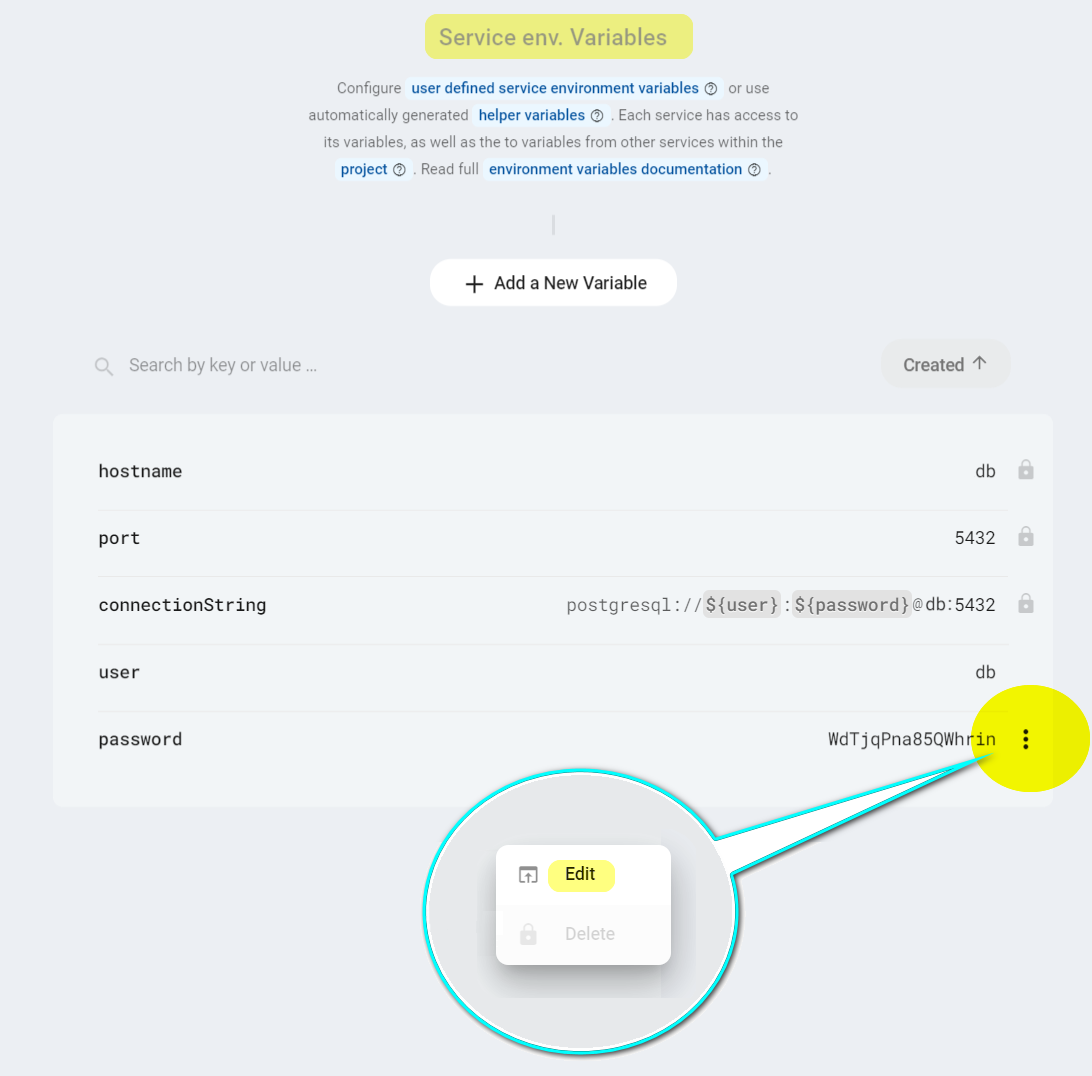
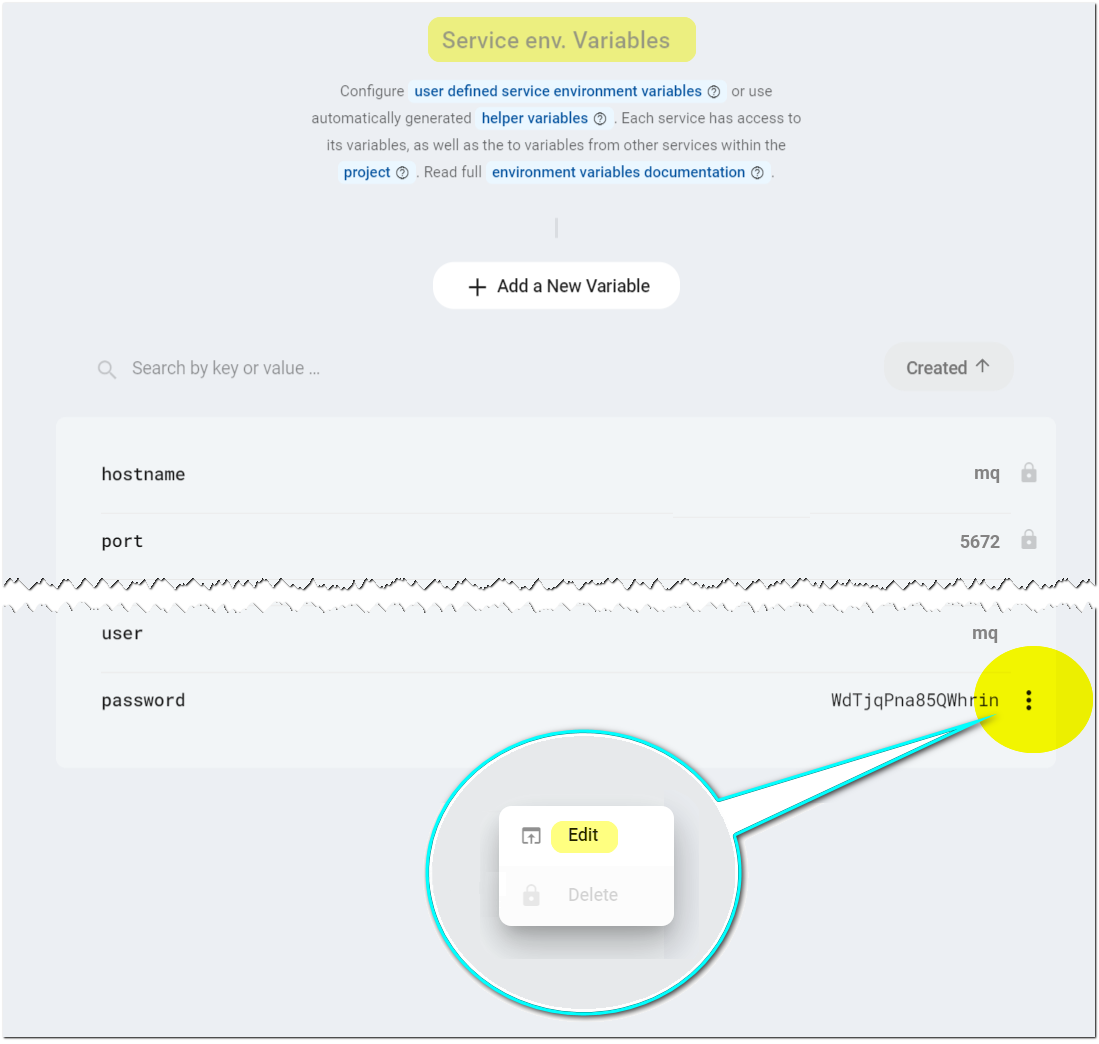
wip(rabbitmq): default user

diff --git a/src/documentation/services/message-brokers/rabbitmq.md b/src/documentation/services/message-brokers/rabbitmq.md
@@ -91,12 +91,6 @@ When creating a new service, you can choose whether the database should be run i
 * with two load balancers ([HAProxy](http://www.haproxy.org)) (no additional cost),
 * recommended for production projects.
 
-<!-- markdownlint-disable DOCSMD004 -->
-::: tip Default Zerops maintenance user
-For system maintenance reasons, the `zps` user is also automatically created with all privileges. It's important not to change it in any way. Otherwise, there is a risk of disrupting the correct functionality, especially in HA mode.
-:::
-<!-- markdownlint-enable DOCSMD004 -->
-
 ## How to access a RabbitMQ message broker
 
 <!-- markdownlint-disable DOCSMD004 -->
@@ -132,6 +126,26 @@ You can's access the RabbitMQ service native protocols (`amqp`, `mqtt`, `stomp`)
 To understand this better, take a look at the section [With external access](/documentation/overview/how-zerops-works-inside/typical-schemas-of-zerops-projects.html#with-external-access) of **Typical schemas of Zerops Projects**.
 
 To get the advantage of the direct access to the RabbitMQ [web management portal](https://www.rabbitmq.com/management.html) (port 15672) or transmit messages using WebSockets and the RabbitMQ [STOMP](https://www.rabbitmq.com/web-stomp.html) (port 15674) and [MQTT](https://www.rabbitmq.com/web-mqtt.html) (port 15675) plugins, see the [Selective access to the internal ports](#selective-access-to-the-internal-ports) section.
+
+## Default RabbitMQ user and password
+
+Zerops automatically creates a user with all privileges and grant options when creating the service, where the name of **==user==** is based on the selected **hostname**, and the **==password==** is randomly generated. These are saved to the environment variables **user** and **password** and can be referenced from other services the same way as **connectionString**, for example.
+
+<!-- markdownlint-disable DOCSMD004 -->
+::: warning Zerops doesn’t keep both places in sync
+If you change your password inside the RabbitMQ broker directly, the change is not reflected in the environment variable and vice versa. It’s up to you to keep these up to date through the **Service env. Variables** section of the service detail in your application.
+
+![RabbitMQ Service](./images/RabbitMQ-Message-Broker-Access-Change-Password.png "Message Broker Access Change Password")
+:::
+<!-- markdownlint-enable DOCSMD004 -->
+
+<!-- markdownlint-disable DOCSMD004 -->
+::: tip Default Zerops maintenance user
+For system maintenance reasons, the `zps` user is also automatically created with all privileges. It's vital not to change this in any way. Otherwise, there is a risk of disrupting the correct functionality, especially in HA mode. The password for this user can be taken via the `zeropsPassword` environment variable (not presented in the Zerops GUI).
+
+Suppose you log in as the `zps` user and make inappropriate changes to the system configuration (especially in the HA cluster setting). You are fully responsible for any system or application failures that may lead to complete data loss.
+:::
+<!-- markdownlint-enable DOCSMD004 -->
 
 ## Default hardware configuration and autoscaling
 
